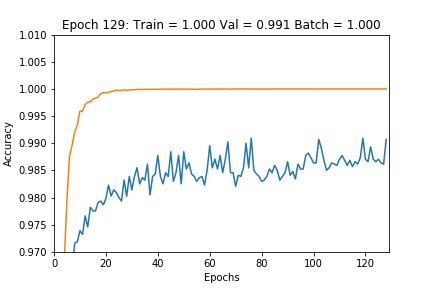
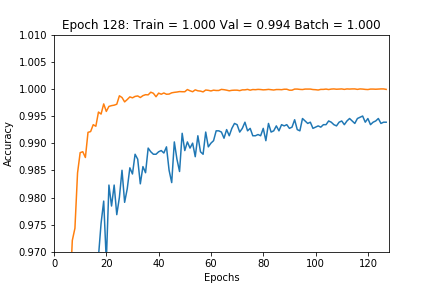
Docu updated with the new CNN architecture

diff --git a/README.md b/README.md
@@ -120,26 +120,42 @@ Improved versions with more and larger layers gave better results but were slow 
 
 Since the paper described a succesfull architecture with a relatively small network it was tried to reproduce it using Tensorflow.
 
-The network uses two stages with convolution and max pooling followed by two fully connected layers. To allow the fully connected layers to use low and high level features the output of stage two contains the the output of layer 2 merged with the output of layer 1 (with an additional max pooling).
+The network uses three stages with convolution and max pooling followed by three fully connected layers. The first two stages use 3x3 and 5x5 convolutions which are concatenated for the next stage.
 
 My final model consisted of the following layers:
 
-| Layer         		|     Description	        					| 
-|:---------------------:|:---------------------------------------------:| 
+| Layer         		|     Description	        					| Parallel layer | Descrioption |
+|:---------------------:|:---------------------------------------------:|:--------------:|:------------:|
 | Input         		| 32x32x1 grayscale image   					| 
-| Convolution 5x5     	| 1x1 stride, valid padding, outputs 28x28x108 	|
-| RELU					|												|
-| Max pooling	      	| 2x2 stride,  outputs 14x14x64 				|
-| Dropout               | keep probability 0.65                          |
-| Convolution 5x5	    | 1x1 stride, valid padding, outputs 10x10x200  |
-| RELU					|												|
-| Max pooling	      	| 2x2 stride,  outputs 5x5x200   				|
-| Dropout               | keep probability 0.65                          |
-| Max pooling of layer 1| 2x2 stride,  outputs 7x7x108                  |
-| Flatten               | flatten of layer 2 and layer 1 with max pooling, outputs 10292x1|
+| Convolution 5x5     	| 1x1 stride, same padding, outputs 32x32x50 	| Convolution 3x3	    | 1x1 stride, same padding, outputs 32x32x50  |
+| ELU					|												|ELU				
+|  Dropout              | keep probability 0.65                         | Droput | |
+| Concatenate the parallel layers |||
+| Convolution 5x5     	| 2x2 stride, same padding, outputs 16x16x70 	| Convolution 3x3	    | 2x2 stride, same padding, outputs 16x16x70  |
+| ELU					|												|ELU				
+|  Dropout              | keep probability 0.65                         | Droput | |
+| Concatenate the parallel layers |||
+| Convolution 5x5     	| 2x2 stride, valid padding, outputs 4x4x100 	| Convolution 3x3	    | 2x2 stride, valid padding, outputs 6x6x100  |
+| ELU					|												|ELU				
+|  Dropout              | keep probability 0.65                         | Droput | |
+| Concatenate the parallel layers |||
+| Flatten               | 
+| Concatenate ||||
 | Fully connected		| 100 nodes         							|
+| Batch normalization |
+| Elu |
 | Dropout               | keep probability 0.65                          |
-| Fully connected		| 42 nodes         						    	|
+| Batch normalization |
+| Fully connected		| 50 nodes         							|
+| Batch normalization |
+| Elu |
+| Dropout               | keep probability 0.65                          |
+| Batch normalization |
+| Fully connected		| 43 nodes         							|
+| Batch normalization |
+| Elu |
+| Dropout               | keep probability 0.65                          |
+| Batch normalization |
 | Softmax				|           									|
 
 ## Model Optimization
@@ -150,7 +166,7 @@ Since larger neural networks have the tendency to overfit the training data Drop
 
 The size of the network was taken from [1] where it gave the best results.
 
-While running the model training a plot of the train and validation accuracy was done. Using the plot the parameters were optimized to have neither an over- nor underfitted model. For the best result the training accuracy was 1.0 and the validation accuracy was 0.991. Trying to increade droput rate or image augmentation gave for both accuracies worse results.
+While running the model training a plot of the train and validation accuracy was done. Using the plot the parameters were optimized to have neither an over- nor underfitted model. For the best result the training accuracy was 1.0 and the validation accuracy was 0.995. Trying to increade droput rate or image augmentation gave for both accuracies worse results.
 
 ![Accuracy plot][image6]
 
@@ -164,8 +180,8 @@ The last training had the best model after 129 epochs.
 
 The final model results were:
 * training set accuracy of 1.0
-* validation set accuracy of 0.991
-* test set accuracy of 0.979
+* validation set accuracy of 0.995
+* test set accuracy of 0.985
 
 # Test model on new images
 
@@ -206,19 +222,16 @@ For all traffic signs the probability for the predicted class is 1.0. Even for t
 
 The features detected by the first two layers are shown in the next images.
 
-First there are two visualizations of the features detected by the first layer of the network with first an triangular sign and second with a round sign.
+First there is a visualization of the features detected by the first layer of the network with a round sign.
 
 ![New images][image9]
 
-![New images][image10]
-
-The shapes of the sign can be clearly seen in the two images.
+The shapes of the sign can be clearly seen in the image.
 
 The next image shows the output of the second layer which weight the different features from the first layer.
 
 ![New images][image11]
 
-The result can not be interpreted as easy as the output from the first layer.
 
 # References
 
